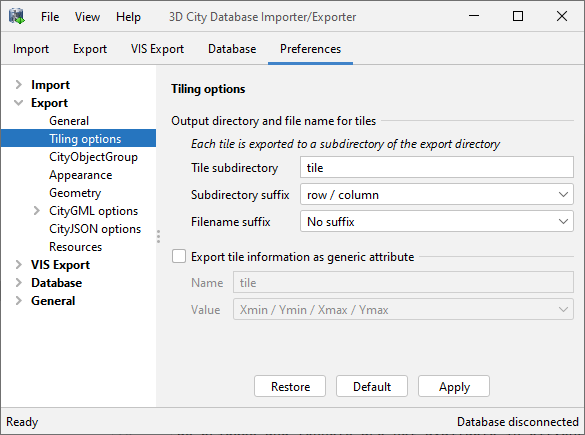
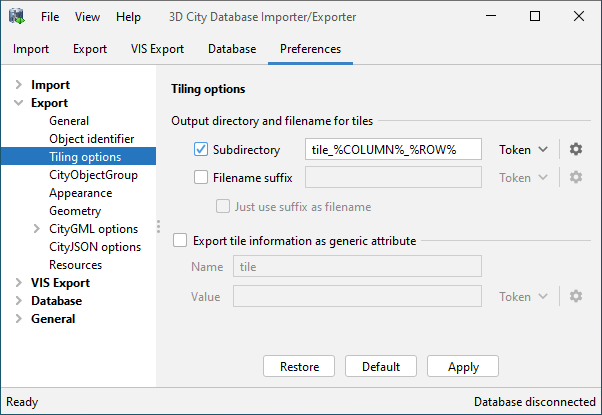
reworked tiling options chapter to reflect the new capabilities of the Importer/Exporter

diff --git a/source/impexp/export-preferences/tiling-options.rst b/source/impexp/export-preferences/tiling-options.rst
@@ -5,13 +5,14 @@ Tiling options
 
 The Importer/Exporter allows for applying a spatial *bounding box
 filter* to exports on the *Export* tab of the operations window.
-To trigger a tiled export, a user can additionally provide the number of rows of columns
+To trigger a tiled export, a user can additionally provide the number of rows and columns
 into which the bounding box shall be evenly split (cf. :numref:`impexp_export_bbox_filter`).
 
 When tiling is enabled in this way, the export operation iterates over all tiles
 within the bounding box and exports the city objects on each tile. Every
-tile is exported to its own file within a separate subfolder. With the *Tiling options*
-settings, the names of the subfolders and tile files can be adapted as shown below.
+tile can be exported to its own unique file within a separate subdirectory. With
+the *Tiling options* settings, the names of the subdirectories and tile files can
+be flexibly adapted as shown below.
 
 .. figure:: /media/impexp_export_preferences_tiling_options_fig.png
    :name: impexp_export_preferences_tiling_options_fig
@@ -19,38 +20,104 @@ settings, the names of the subfolders and tile files can be adapted as shown bel
 
    Export preferences – Tiling options.
 
-The user must always specify just a single output file on the *Export* tab
-even if tiling shall be used (:numref:`impexp_citygml_export_chapter`).
+.. note::
+  You can always just provide a **single output file** on the *Export* tab
+  even if tiling shall be used (:numref:`impexp_citygml_export_chapter`).
+  The *tiling options* then allow you to define unique a subdirectory and/or filename
+  for each tile based on specified output file.
+
 For example, assume a user has entered the following output file:
 
 ::
 
    /home/user/my_3d_model/my_city.gml
 
-For a tiled export, this information is split into two components:
+For a tiled export, this information is split into the following components:
 
 - Export directory: ``/home/user/my_3d_model/``
-- Filename: ``my_city.gml``
+- Filename: ``my_city``
+- File extension: ``.gml``
 
-The Importer/Exporter will create one subfolder for each tile inside the export
-directory. By default, the folder name is ``tile_x_y``, with x and y being the
-row and column of the current tile. Both the *tile subdirectory* (default: tile) and the
-*subdirectory suffix* (default: row / column) can be adapted using the corresponding
-input fields. When a combination of the tile's lower and upper corner
-is chosen instead of the row and column numbers, the coordinates will be given in the
-reference system specified for the export (cf. :numref:`impexp_citygml_export_chapter`;
-default value is the internal SRS of the 3D City Database instance),
-even if the coordinates of the bounding box filter are given in another
-user-defined SRS. This makes it easy to relate city objects to tiles since
-the coordinates of the city objects contained in the tile are exported in the
-same reference system.
+If you want every tile to be stored in a separate subdirectory beneath the predefined
+export directory ``/home/user/my_3d_model/``, simply enable the *Subdirectory* checkbox
+and enter the name of the subdirectory into the input field. To ensure unique names,
+you can use predefined *tokens* that will be replaced by tile-specific values during the export.
+Either pick a token from the drop-down list next to the input field or enter it manually.
+The available tokens are explained below. You can even define nested subdirectories by using
+one or more *path separator* in the input field (Windows: ``\``, Linux/UNIX: ``/``). If all
+tiles shall rather be stored in the predefined export directory, just disable the
+*Subdirectory* checkbox.
 
-The filename of each tile file is chosen to be identical with the filename of
-the output file on the *Export* tab by default (``my_city.gml`` in the above
-example). However, you may also decide to append a tile-specific *filename suffix*.
+In addition to the subdirectory, you can also add a suffix to the filename of
+each tile. Enable the *Filename suffix* checkbox and enter your choice into the input field.
+You can again use tokens here. The suffix will be automatically appended to the predefined
+filename from the *Export* tab. By checking the *Just use suffix as filename* option, you can
+even choose to replace the filename with your suffix. In either case, note that the file
+extension cannot be changed.
 
-**Example:** Based on the example output file from above and assuming default settings,
-the export would create the following folder structure:
+By default, the Importer/Exporter will create a subdirectory per tile with the
+name ``tile_%COLUMN%_%ROW%``. The ``%COLUMN%`` and ``%ROW%`` tokens will be replaced
+by the column and row indexes of the current tile. A filename suffix is not added by default.
+
+.. warning::
+  Make sure that the combination of subdirectory name and filename suffix results in a
+  *unique location* for each tile. Otherwise, tile files might get overwritten during
+  the export. The Importer/Exporter does not perform any checks on your settings.
+
+**Available tokens and their meaning**
+
+The tokens listed below are available and can be used to define the subdirectory and filename
+suffix.
+
+.. list-table::  *Available tokens and their meaning*
+   :align: center
+   :name: export_tiling_options_tokens
+   :widths: 25 75
+
+   * - | **Token**
+     - | **Description**
+   * - | %ROW%
+     - | Row index of the current tile. The first tile has the row index 0.
+   * - | %COLUMN%
+     - | Column index of the current tile. The first tile has the column index 0.
+   * - | %X_MIN%
+     - | X value of the lower left corner of the tile extent.
+   * - | %Y_MIN%
+     - | Y value of the lower left corner of the tile extent.
+   * - | %X_MAX%
+     - | X value of the upper right corner of the tile extent.
+   * - | %Y_MAX%
+     - | Y value of the upper right corner of the tile extent.
+
+The coordinates of the tile extent are always given in the reference system
+that has been chosen as target system for the export
+(cf. :numref:`impexp_citygml_export_chapter`). By default, this is the internal
+reference system of the 3D City Database instance.
+
+**Formatting tokens**
+
+When clicking on the settings button |token_settings| next to an input field,
+you can define a format string for each token. This format string is applied to
+the value before replacing the token. Format strings are helpful, for example, to
+format the coordinate values of the tile extent (e.g., to limit the number of
+decimal places or to even cut off all decimal places from the coordinate value).
+
+The format string syntax follows and supports the specification of the ``format()``
+method of the Java Language. A full documentation of the syntax is available
+`here <https://docs.oracle.com/en/java/javase/11/docs/api/java.base/java/util/Formatter.html#syntax>`_.
+Some example format strings are shown below.
+
+- ``%s``: This is the default format and simply formats the value as string.
+- ``%d``: The value is formatted as decimal integer.
+- ``%f``: The value is formatted as decimal number.
+- ``%.2f``: The value is formatted as decimal number with two decimal places.
+- ``%4.4s``: Format the value as string but only print exactly four characters.
+
+
+**Examples**
+
+Based on the example output file from above and assuming default value ``tile_%COLUMN%_%ROW%``
+for subdirectories, the export would create the following folder structure:
 
 ::
 
@@ -63,7 +130,31 @@ the export would create the following folder structure:
    |   └── my_city.gml
    ...
 
+When choosing ``%COLUMN%/%ROW%`` as value for the subdirectory, even nested folders
+will be created:
+
+::
+
+   /home/user/my_3d_model/
+   ├── 0/
+   |   └── 0/
+   |       └── my_city.gml
+   ├── 0/
+   |   └── 1/
+   |       └── my_city.gml
+   ...
+   ├── 1/
+   |   └── 1/
+   |       └── my_city.gml
+   ...
+
+**Adding a generic tile attribute to top-level features**
+
 For further traceability, it is possible to attach a generic string
-attribute of name *TILE* to each exported top-level feature, indicating
-which tile it belongs to. The options for the value of the generic
-attribute are the same as for the suffix of the tile subfolder.
+attribute to each exported top-level feature to indicate the tile
+to which it belongs. Simply enable the corresponding option in the *tiling options*
+dialog and define the name and the value of the generic attribute to be created.
+You can again use tokens for the attribute value that will be replaced
+with the actual values at export time.
+
+.. |token_settings| image:: /media/settings.svg
